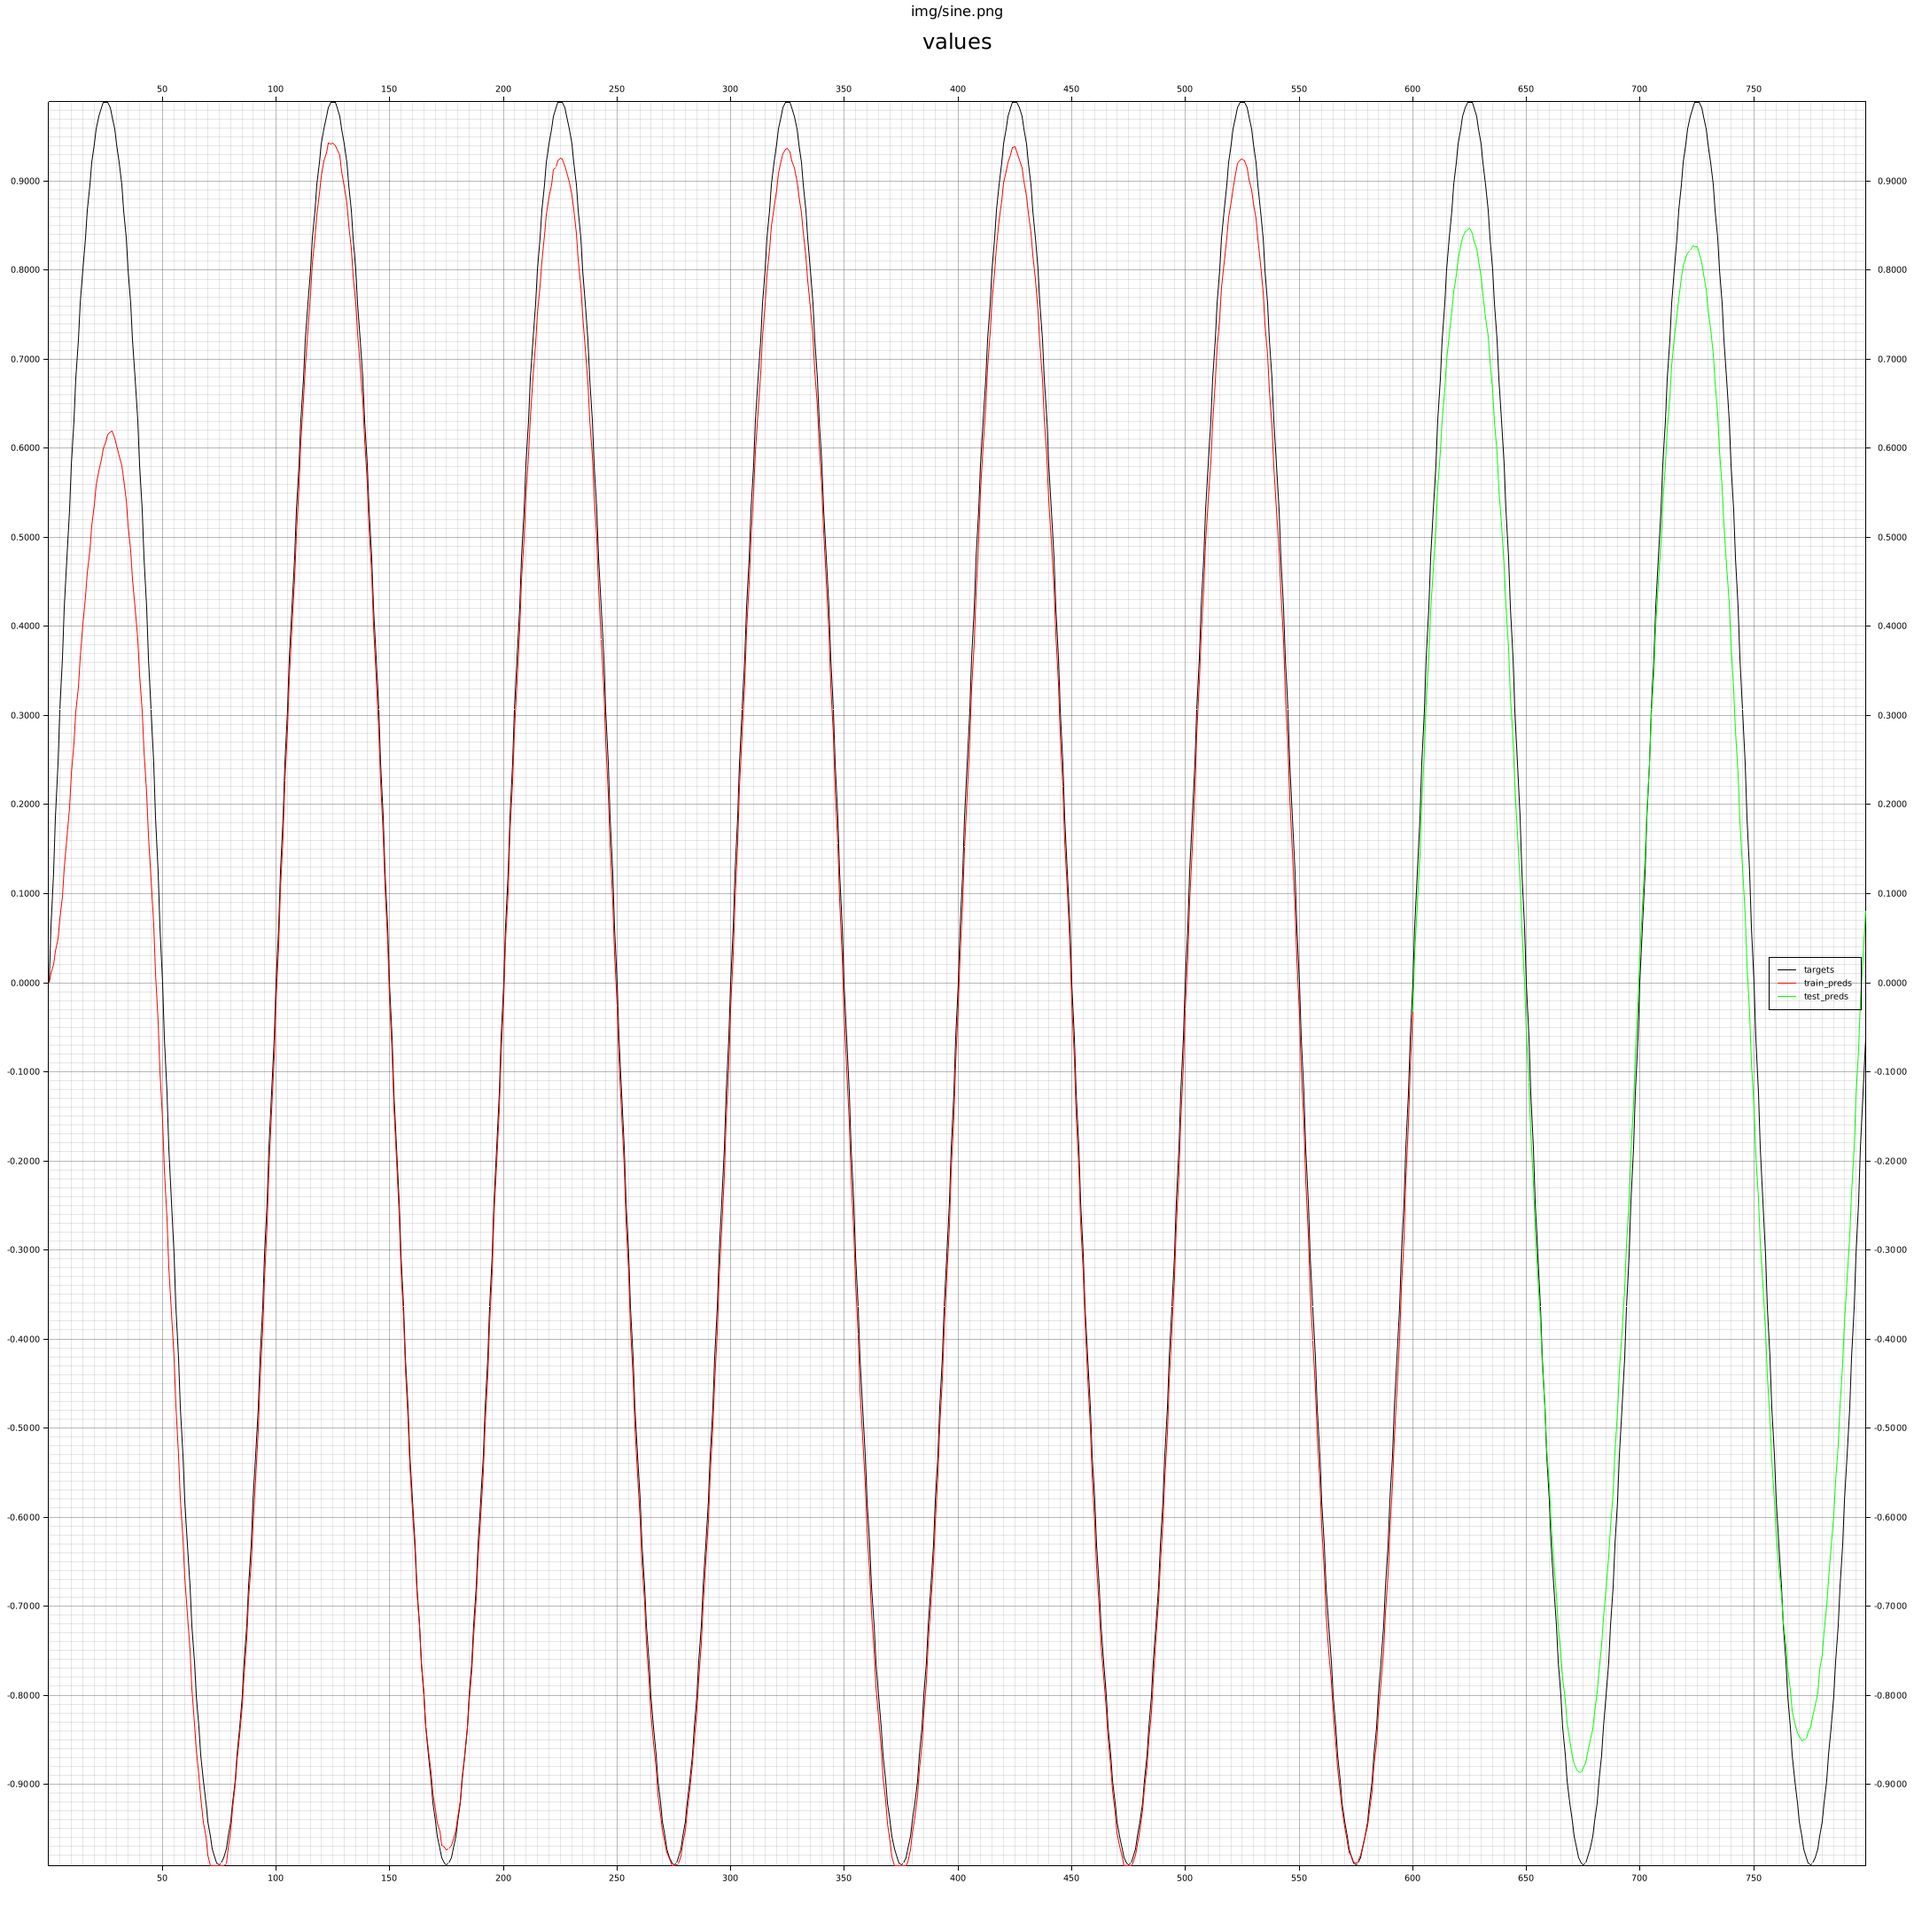
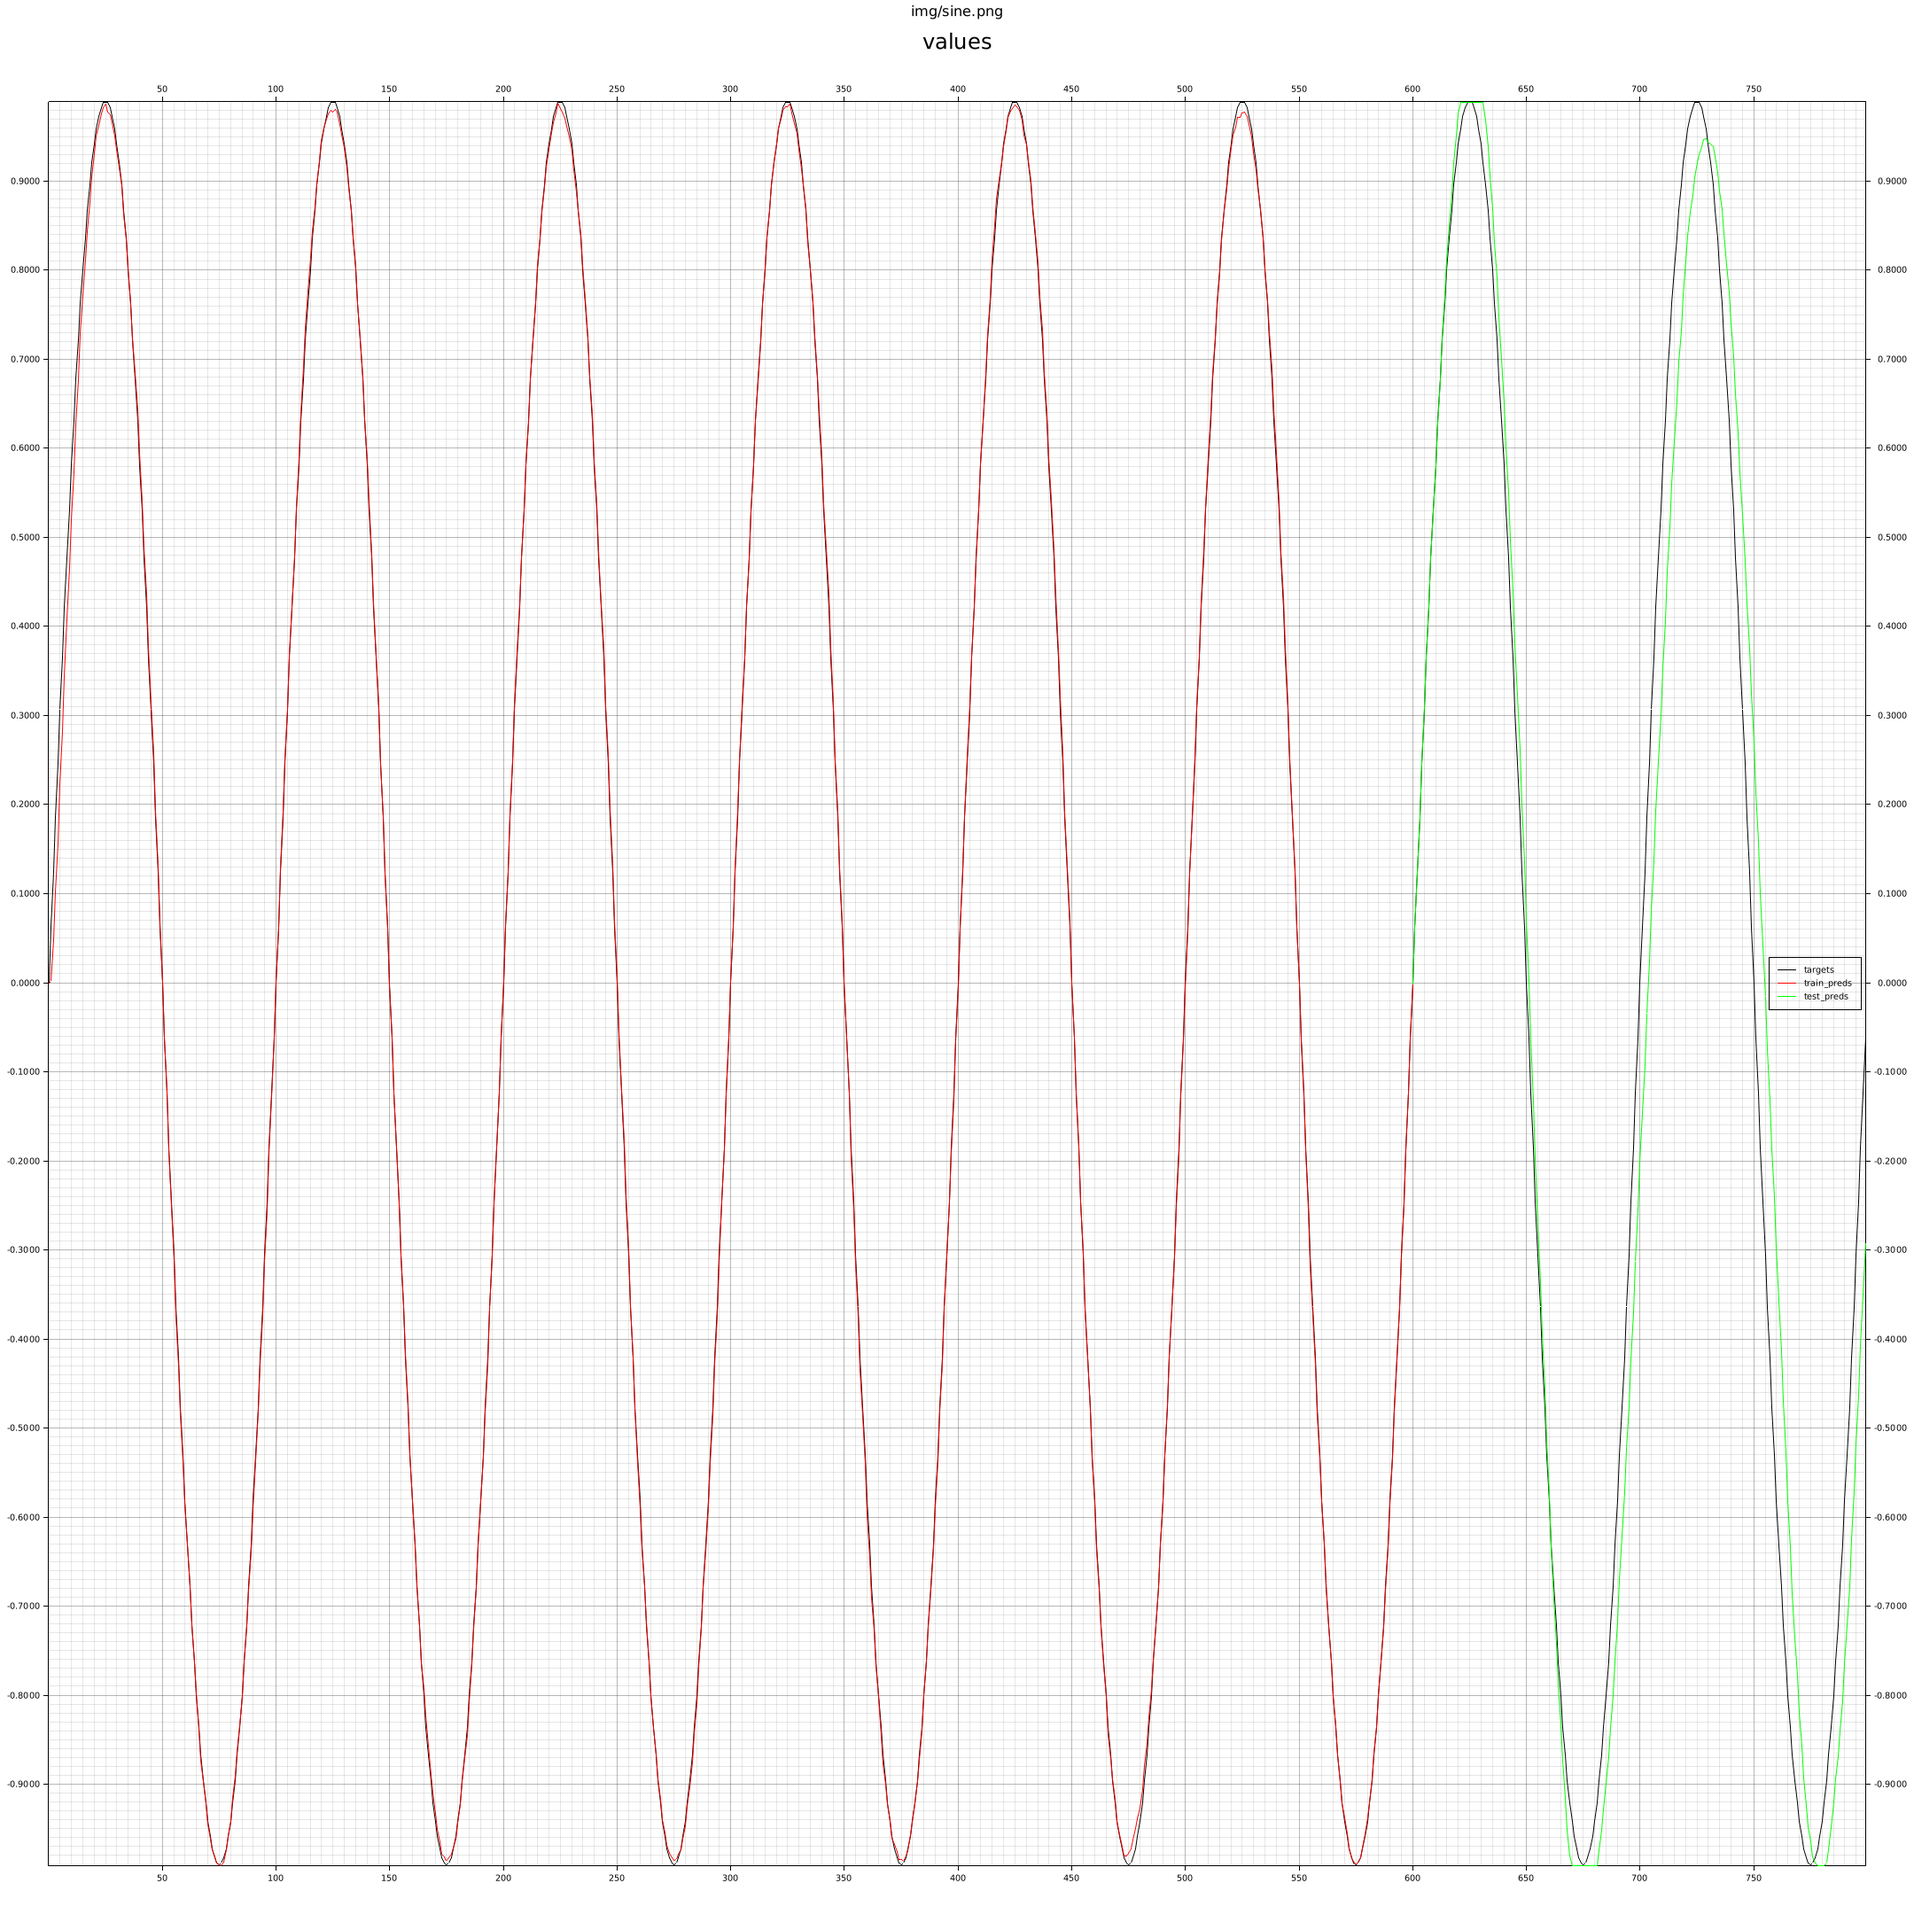
use current input in readout

Changed region(s): [[0.2792, 0.0931, 0.3102, 0.1551], [0.1551, 0.0931, 0.1861, 0.1241]]

diff --git a/src/esn.rs b/src/esn.rs
@@ -69,6 +69,7 @@ pub(crate) struct ESN {
     feedback_matrix:
         Matrix<f64, Dynamic, Const<OUTPUT_DIM>, VecStorage<f64, Dynamic, Const<OUTPUT_DIM>>>,
     state: StateMatrix,
+    extended_state: StateMatrix,
     rng: WyRand,
 }
 
@@ -99,12 +100,7 @@ impl ESN {
         let spec_rad = eigen.eigenvalues.abs().max();
         reservoir_matrix *= (1.0 / spec_rad) * params.spectral_radius;
 
-        let input_weight_matrix: Matrix<
-            f64,
-            Dynamic,
-            Const<INPUT_DIM>,
-            VecStorage<f64, Dynamic, Const<INPUT_DIM>>,
-        > = Matrix::from_fn_generic(
+        let input_weight_matrix = Matrix::from_fn_generic(
             Dim::from_usize(params.reservoir_size),
             Dim::from_usize(INPUT_DIM),
             |_, _| {
@@ -122,7 +118,7 @@ impl ESN {
         );
 
         let readout_matrix = Matrix::from_fn_generic(
-            Dim::from_usize(params.reservoir_size),
+            Dim::from_usize(1 + params.reservoir_size),
             Dim::from_usize(OUTPUT_DIM),
             |_, _| rng.generate::<f64>() * 2.0 - 1.0,
         );
@@ -143,14 +139,19 @@ impl ESN {
                 }
             },
         );
-        let state: StateMatrix = Matrix::from_element_generic(
+        let state = Matrix::from_element_generic(
             Dim::from_usize(params.reservoir_size),
             Dim::from_usize(1),
             params.initial_state_value,
         );
+        let extended_state = Matrix::from_element_generic(
+            Dim::from_usize(1 + params.reservoir_size),
+            Dim::from_usize(1),
+            params.initial_state_value,
+        );
         info!(
-            "input_matrix: {}\nreservoir: {}\nreadout_matrix: {}\nstate: {}",
-            input_weight_matrix, reservoir_matrix, readout_matrix, state
+            "input_matrix: {}\nreservoir: {}\nreadout_matrix: {}",
+            input_weight_matrix, reservoir_matrix, readout_matrix
         );
 
         Self {
@@ -162,6 +163,7 @@ impl ESN {
             feedback_matrix,
             reservoir_biases,
             rng,
+            extended_state,
         }
     }
 
@@ -171,7 +173,7 @@ impl ESN {
 
         let mut design_matrix: DMatrix<f64> = DMatrix::from_element_generic(
             Dim::from_usize(harvest_len),
-            Dim::from_usize(1 + self.params.reservoir_size),
+            Dim::from_usize(2 + self.params.reservoir_size),
             0.0,
         );
         let mut target_matrix: Matrix<
@@ -195,12 +197,12 @@ impl ESN {
                 let design: Matrix<f64, Const<1>, Dynamic, VecStorage<f64, Const<1>, Dynamic>> =
                     Matrix::from_fn_generic(
                         Dim::from_usize(1),
-                        Dim::from_usize(1 + self.params.reservoir_size),
+                        Dim::from_usize(2 + self.params.reservoir_size),
                         |_, j| {
                             if j == 0 {
                                 1.0
                             } else {
-                                *self.state.get(j - 1).unwrap()
+                                *self.extended_state.get(j - 1).unwrap()
                             }
                         },
                     );
@@ -220,15 +222,15 @@ impl ESN {
 
         let k = design_matrix.transpose() * &design_matrix;
         let identity_m: DMatrix<f64> = DMatrix::from_diagonal_element_generic(
-            Dim::from_usize(1 + self.params.reservoir_size),
-            Dim::from_usize(1 + self.params.reservoir_size),
+            Dim::from_usize(2 + self.params.reservoir_size),
+            Dim::from_usize(2 + self.params.reservoir_size),
             1.0,
         );
         let p = (k + self.params.regularization_coeff * identity_m).try_inverse().unwrap();
         let xTy = design_matrix.transpose() * &target_matrix;
         let readout_matrix = p * xTy;
         self.readout_matrix = Matrix::from_fn_generic(
-            Dim::from_usize(self.params.reservoir_size),
+            Dim::from_usize(INPUT_DIM + self.params.reservoir_size),
             Dim::from_usize(OUTPUT_DIM),
             |i, _| *readout_matrix.get(i + 1).unwrap(),
         );
@@ -255,13 +257,24 @@ impl ESN {
         self.params.reservoir_activation.activate(state_delta.as_mut_slice());
 
         self.state = (1.0 - self.params.leaking_rate) * &self.state + state_delta;
+        self.extended_state = Matrix::from_fn_generic(
+            Dim::from_usize(1 + self.params.reservoir_size),
+            Dim::from_usize(1),
+            |i, _| {
+                if i == 0 {
+                    *input.get(0).unwrap()
+                } else {
+                    *self.state.row(i - 1).get(0).unwrap()
+                }
+            },
+        );
     }
 
     /// Perform a readout operation
     #[inline]
     #[must_use]
     pub(crate) fn readout(&self) -> Output {
-        let mut pred = self.readout_matrix.transpose() * &self.state;
+        let mut pred = self.readout_matrix.transpose() * &self.extended_state;
         if self.params.output_tanh {
             pred.iter_mut().for_each(|v| *v = v.tanh());
         }
@@ -270,9 +283,15 @@ impl ESN {
     }
 
     /// Resets the state to it's initial values
+    #[inline(always)]
     pub(crate) fn reset_state(&mut self) {
         self.state = Matrix::from_element_generic(
             Dim::from_usize(self.params.reservoir_size),
+            Dim::from_usize(1),
+            self.params.initial_state_value,
+        );
+        self.extended_state = Matrix::from_element_generic(
+            Dim::from_usize(1 + self.params.reservoir_size),
             Dim::from_usize(1),
             self.params.initial_state_value,
         );

diff --git a/src/experiments/mackey_glass.rs b/src/experiments/mackey_glass.rs
@@ -20,21 +20,21 @@ pub(crate) fn start() {
     let params = Params {
         input_sparsity: 0.1,
         input_activation: Activation::Identity,
-        input_weight_scaling: 1.0,
-        reservoir_bias_scaling: 0.05,
+        input_weight_scaling: 0.5,
+        reservoir_bias_scaling: 0.01,
 
-        reservoir_size: 100,
-        reservoir_fixed_in_degree_k: 2,
+        reservoir_size: 200,
+        reservoir_fixed_in_degree_k: 4,
         reservoir_activation: Activation::Tanh,
 
         feedback_gain: 0.0,
-        spectral_radius: 0.90,
-        leaking_rate: 1.0,
-        regularization_coeff: 0.1,
-        washout_pct: 0.0,
+        spectral_radius: 0.99,
+        leaking_rate: 0.15,
+        regularization_coeff: 0.05,
+        washout_pct: 0.1,
         output_tanh: false,
         seed: Some(0),
-        state_update_noise_frac: 0.0,
+        state_update_noise_frac: 0.001,
         initial_state_value: values[0],
     };
 

diff --git a/src/experiments/trades.rs b/src/experiments/trades.rs
@@ -46,20 +46,20 @@ pub(crate) fn start() {
         input_sparsity: 0.1,
         input_activation: Activation::Identity,
         input_weight_scaling: 1.0,
-        reservoir_bias_scaling: 0.04,
+        reservoir_bias_scaling: 0.0,
 
         reservoir_size: 500,
-        reservoir_fixed_in_degree_k: 10,
+        reservoir_fixed_in_degree_k: 8,
         reservoir_activation: Activation::Tanh,
 
-        feedback_gain: 0.01,
-        spectral_radius: 0.90,
+        feedback_gain: 0.0,
+        spectral_radius: 0.9,
         leaking_rate: 0.02,
         regularization_coeff: 0.1,
         washout_pct: 0.3,
-        output_tanh: true,
+        output_tanh: false,
         seed: Some(0),
-        state_update_noise_frac: 0.001,
+        state_update_noise_frac: 0.0005,
         initial_state_value: values[0],
     };
     let mut rc = ESN::new(params);

diff --git a/src/experiments/sine.rs b/src/experiments/sine.rs
@@ -27,16 +27,16 @@ pub(crate) fn start() {
     let params = Params {
         input_sparsity: 0.1,
         input_activation: Activation::Identity,
-        input_weight_scaling: 1.0,
-        reservoir_bias_scaling: 0.05,
+        input_weight_scaling: 0.5,
+        reservoir_bias_scaling: 0.0,
 
         reservoir_size: 80,
-        reservoir_fixed_in_degree_k: 3,
+        reservoir_fixed_in_degree_k: 2,
         reservoir_activation: Activation::Tanh,
 
-        feedback_gain: 0.1,
-        spectral_radius: 0.90,
-        leaking_rate: 0.05,
+        feedback_gain: 0.0,
+        spectral_radius: 0.9,
+        leaking_rate: 0.2,
         regularization_coeff: 0.1,
         washout_pct: 0.1,
         output_tanh: false,
